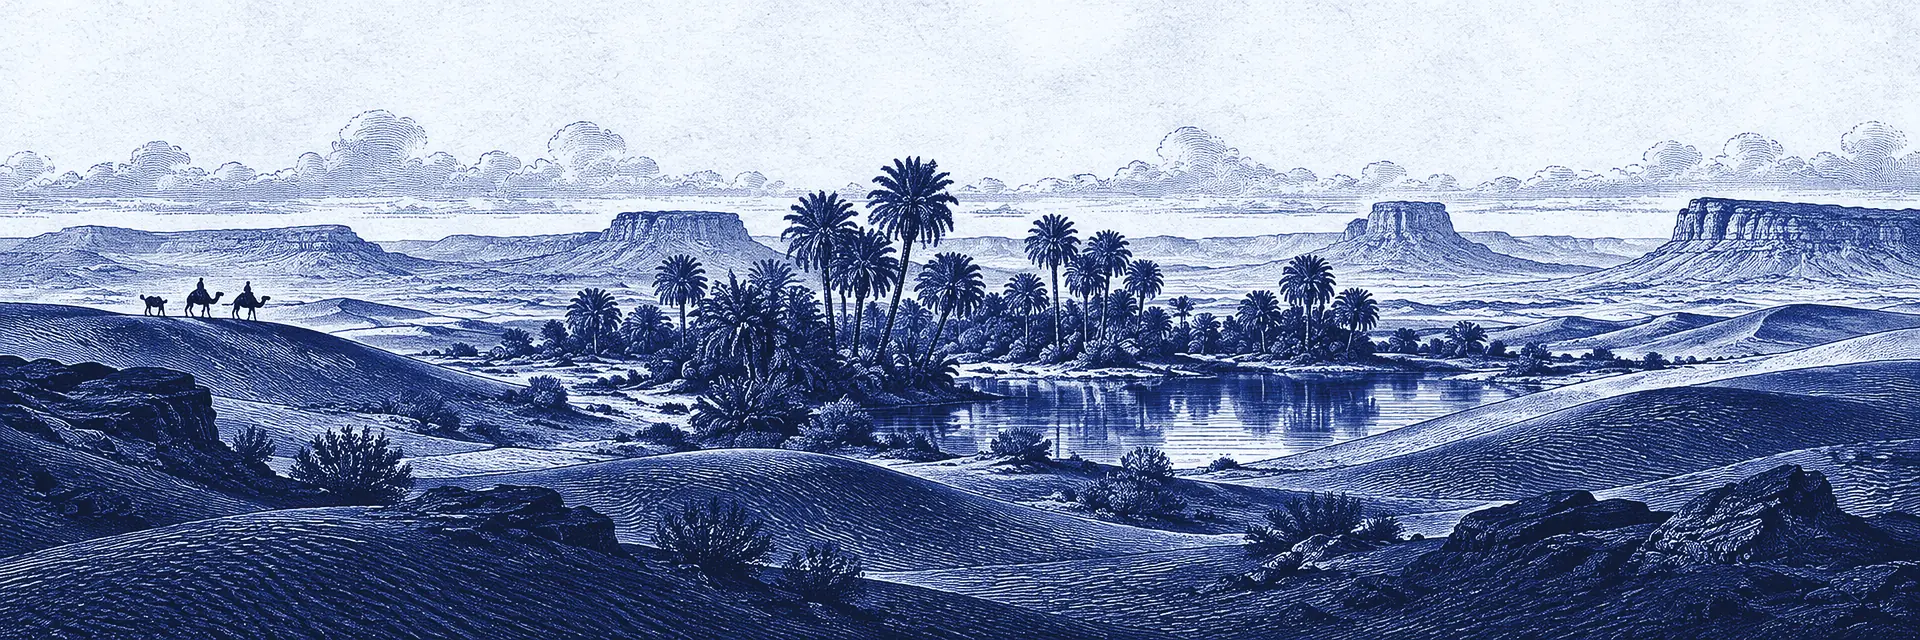
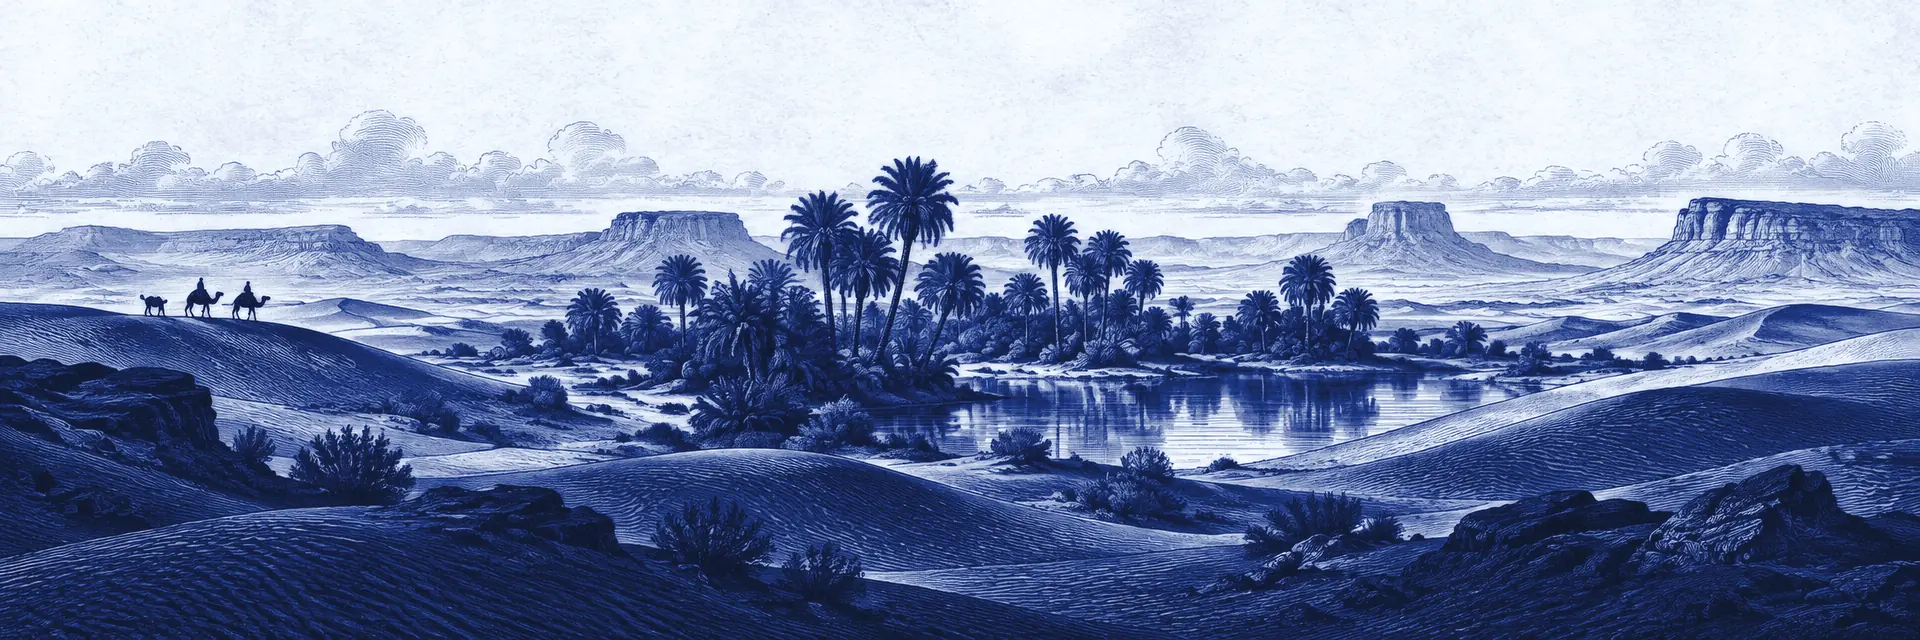
feat(web): HD footer plates from a Topaz 3x upscale
Re-ink the day and evening plates from a 5760px Topaz High Fidelity V2
upscale of the untinted source (tone-matched to the original) and add
3840w/5760w to both srcsets, so 4K/5K screens get real line detail
instead of a stretched 2880. Lazy loading still limits each visitor to
one size of one plate.

Claude-Session: https://claude.ai/code/session_01Hxn5m3KJAwbf5oza7D6ghF

Changed region(s): [[0.0, 0.1875, 1.0, 1.0]]

diff --git a/apps/web/src/components/site-footer.tsx b/apps/web/src/components/site-footer.tsx
@@ -148,11 +148,11 @@ export function SiteFooter() {
         {/* eslint-disable-next-line @next/next/no-img-element -- a static decorative image with its own srcset; no optimisation to gain */}
         <img
           src="/footer/arabian-landscape-1920.webp"
-          srcSet="/footer/arabian-landscape-960.webp 960w, /footer/arabian-landscape-1920.webp 1920w, /footer/arabian-landscape-2880.webp 2880w"
+          srcSet="/footer/arabian-landscape-960.webp 960w, /footer/arabian-landscape-1920.webp 1920w, /footer/arabian-landscape-2880.webp 2880w, /footer/arabian-landscape-3840.webp 3840w, /footer/arabian-landscape-5760.webp 5760w"
           sizes="max(100vw, 720px)"
           alt=""
-          width={2880}
-          height={960}
+          width={5760}
+          height={1920}
           loading="lazy"
           decoding="async"
           className="size-full object-cover object-bottom dark:hidden"
@@ -160,11 +160,11 @@ export function SiteFooter() {
         {/* eslint-disable-next-line @next/next/no-img-element -- see above */}
         <img
           src="/footer/arabian-landscape-evening-1920.webp"
-          srcSet="/footer/arabian-landscape-evening-960.webp 960w, /footer/arabian-landscape-evening-1920.webp 1920w, /footer/arabian-landscape-evening-2880.webp 2880w"
+          srcSet="/footer/arabian-landscape-evening-960.webp 960w, /footer/arabian-landscape-evening-1920.webp 1920w, /footer/arabian-landscape-evening-2880.webp 2880w, /footer/arabian-landscape-evening-3840.webp 3840w, /footer/arabian-landscape-evening-5760.webp 5760w"
           sizes="max(100vw, 720px)"
           alt=""
-          width={2880}
-          height={960}
+          width={5760}
+          height={1920}
           loading="lazy"
           decoding="async"
           className="hidden size-full object-cover object-bottom dark:block"
